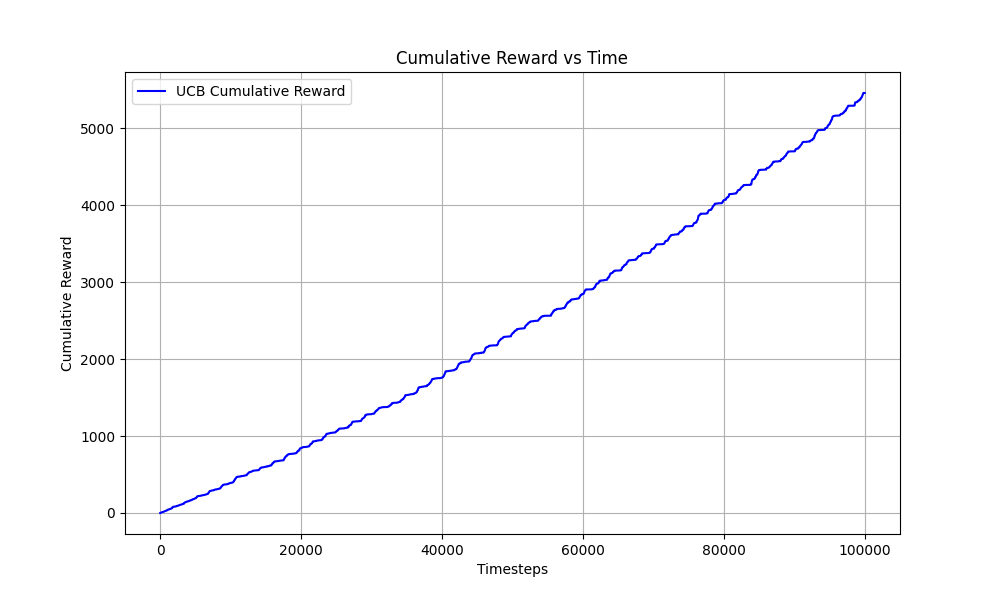
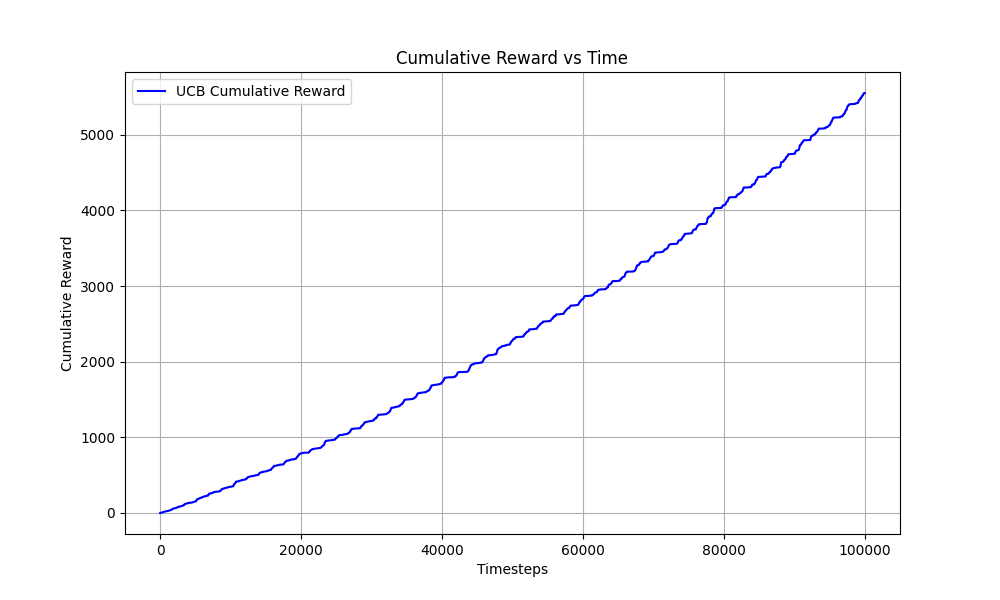
feat: reloaded the main.py and updated results

diff --git a/results/report.html b/results/report.html
@@ -30,8 +30,8 @@
         <h2>Section 4: Results and Graphs</h2>
         <div class="metric-box">
             <p><strong>Total Recommendations Simulated:</strong> 100000</p>
-            <p><strong>Total Cumulative Reward:</strong> 5458.00</p>
-            <p><strong>Average Target Reward Rate:</strong> 0.0546</p>
+            <p><strong>Total Cumulative Reward:</strong> 5553.00</p>
+            <p><strong>Average Target Reward Rate:</strong> 0.0555</p>
         </div>
         
         <h3>Cumulative Reward vs. Time</h3>
@@ -45,16 +45,16 @@
 
         <h2>Section 5: Top Recommended Movies</h2>
         <ul>
-        <li>Star Wars (1977) (ID: 50) - Selected 906.0 times, Avg Reward: 0.5121</li>
-        <li>Return of the Jedi (1983) (ID: 181) - Selected 344.0 times, Avg Reward: 0.4128</li>
-        <li>Toy Story (1995) (ID: 1) - Selected 275.0 times, Avg Reward: 0.3818</li>
-        <li>Fargo (1996) (ID: 100) - Selected 246.0 times, Avg Reward: 0.3659</li>
-        <li>Raiders of the Lost Ark (1981) (ID: 174) - Selected 231.0 times, Avg Reward: 0.3550</li>
-        <li>Godfather, The (1972) (ID: 127) - Selected 207.0 times, Avg Reward: 0.3382</li>
-        <li>English Patient, The (1996) (ID: 286) - Selected 201.0 times, Avg Reward: 0.3333</li>
-        <li>Fugitive, The (1993) (ID: 79) - Selected 185.0 times, Avg Reward: 0.3189</li>
-        <li>Silence of the Lambs, The (1991) (ID: 98) - Selected 183.0 times, Avg Reward: 0.3169</li>
-        <li>Jerry Maguire (1996) (ID: 237) - Selected 183.0 times, Avg Reward: 0.3169</li>
+        <li>Star Wars (1977) (ID: 50) - Selected 859.0 times, Avg Reward: 0.5076</li>
+        <li>Fargo (1996) (ID: 100) - Selected 494.0 times, Avg Reward: 0.4555</li>
+        <li>Return of the Jedi (1983) (ID: 181) - Selected 399.0 times, Avg Reward: 0.4311</li>
+        <li>Contact (1997) (ID: 258) - Selected 275.0 times, Avg Reward: 0.3818</li>
+        <li>Silence of the Lambs, The (1991) (ID: 98) - Selected 229.0 times, Avg Reward: 0.3537</li>
+        <li>Raiders of the Lost Ark (1981) (ID: 174) - Selected 217.0 times, Avg Reward: 0.3456</li>
+        <li>Toy Story (1995) (ID: 1) - Selected 197.0 times, Avg Reward: 0.3299</li>
+        <li>Pulp Fiction (1994) (ID: 56) - Selected 195.0 times, Avg Reward: 0.3282</li>
+        <li>L.A. Confidential (1997) (ID: 302) - Selected 185.0 times, Avg Reward: 0.3189</li>
+        <li>English Patient, The (1996) (ID: 286) - Selected 179.0 times, Avg Reward: 0.3128</li>
     </ul>
     </div>
 </body>
